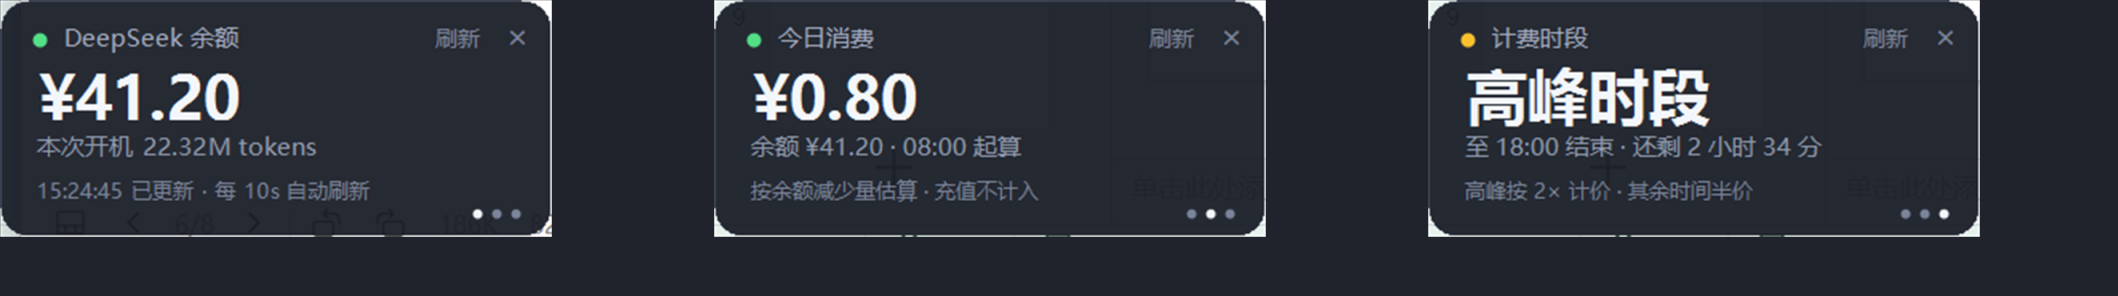
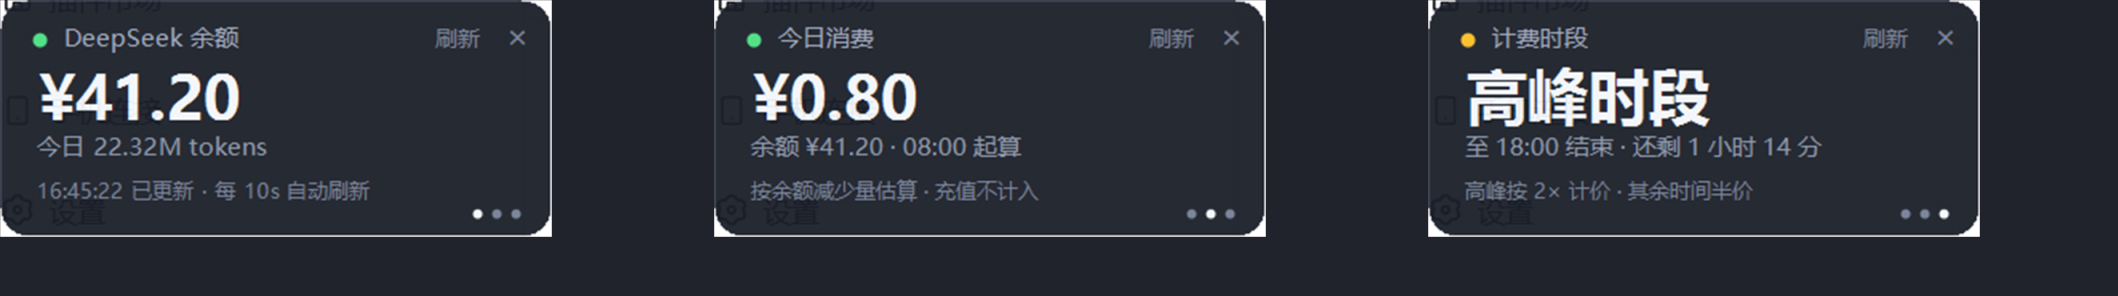
feat: token 行改成「今日累计」—— 跨多次开关机累加，与「今日消费」同一个日界
用户指出：一天里为了调试会反复开关 DSH，只报「本次开机」严重低估，他想要「每天的总
token」，并且和消费金额（8 点起算的 24 小时）保持同一个窗口。

难点在于宿主只在运行期间看得见 session/event，每次开机都从零开始。做法是让 usage.json
带上 dayKey，并把当天各次开机的量分条记录（boots）：每次开机只更新自己那一条，落盘时求和，
于是「今天」= 这一天里所有开机的合计。分条还顺带修掉一个隐患——桌面版与 dsh web 同时开着
时两边都写同一个 usage.json，原来会互相盖掉；现在各写各的，互不抹掉（有单测）。跨天
（dayKey 变）整份重开，与「今日消费」的日界完全一致。

日界因此在 JS（usageDayKey）与 PowerShell（Get-SpendingDayKey）各实现一遍，这是不得已；
守卫办法是两边测试写死同一批边界期望值（08:00 换天 / 07:59 不换 / 起点 0 即自然日 /
起点 20 点时次日 19:00 仍同一天），改一边就立刻变红。

小窗侧只改文案：本次开机 → 今日；日期与累计一律由宿主算好，小窗不自己再实现一套日界。

新增 8 条纯函数用例（跨开机累加、同一开机反复落盘是覆盖、跨天重置、并发实例互不抹掉、
坏文件当没有历史、日界与 PS 一致……）与 2 条装配层用例（两次 apply 累加、跨起算时刻重置）。

diff --git a/lib/usage.js b/lib/usage.js
@@ -1,5 +1,5 @@
 /**
- * dsh-api-balance —— 「本次开机消耗了多少 token」的折叠与呈现（纯函数，便于离线单测）。
+ * dsh-api-balance —— 「今天消耗了多少 token」的折叠、跨开机累计与呈现（纯函数，便于离线单测）。
  *
  * 数据来自宿主事件 `session/event`：每条提交的会话事件都会经过它，其中两种携带
  * provider 上报的用量：
@@ -11,8 +11,10 @@
  * 折叠语义（见 @deepseek-ai/dsh-token-meter 的 usage-projection）：同 turn/step 的
  * 新样本**替换**旧样本，只有 turn/step 推进时才累加。
  *
- * 因为监听是在插件 apply 时挂上的，只会看到本次开机之后追加的事件——「本次开机」
- * 这个口径是订阅时机自带的，不需要额外记录基线。
+ * 折叠出来的只是「本次开机」的量：监听是在插件 apply 时挂上的，看不到更早的事件。
+ * 而用户一天里会反复开关 DSH，所以对外要的是**当天合计**——由 `usageDayPayload` 把
+ * 本次开机的量并进文件里已有的分条记录（`boots`）里，跨开机累加；日界（哪一天、从几点
+ * 算起）与「今日消费」完全一致，见 `usageDayKey`。
  *
  * @module dsh-api-balance/usage
  */
@@ -163,20 +165,73 @@ export function formatTokenCount(value) {
 }
 
 /**
- * 生成写进 usage.json 的载荷。
+ * 「哪一天」的键：形如 `2026-09-14T08:00`，含义是「这一天从 08:00 开始」。
  *
- * 除了原始数字，还带上**已经排好版的**总数文本：窗口只管显示，不在 PowerShell 里再
- * 实现一遍数字压缩（那部分逻辑留在可单测的 JS 里）。四个分桶一并落盘，便于排查
- * 「计数是不是重复了」这类问题——小窗只显示总数，分桶是留给排查用的。
- * @param state - 累计状态。
- * @param now - 本次写入时间。
- * @returns 可 JSON 序列化的载荷。
+ * **必须与 PowerShell 侧的 `Get-SpendingDayKey` 完全一致**：「今日 token」与「今日消费」
+ * 共用同一个日界（`dayStartHour`，默认早 8 点起算、24 小时后换新的一天）。两边各实现一遍
+ * 是不得已（宿主是 JS、小窗是 PowerShell），守卫办法是两边的测试都写死同一批边界期望值
+ * ——08:00 整换天、07:59 仍算前一天、起点填 0 就是自然日……改一边就会立刻变红。
+ * @param date - 当前时刻（本地时间）。
+ * @param startHour - 一天的起点，0-23。
+ * @returns 形如 "2026-09-14T08:00" 的键。
  */
-export function usagePayload(state, now = new Date()) {
-  const snapshot = usageSnapshot(state)
+export function usageDayKey(date = new Date(), startHour = 8) {
+  const hour = Number.isInteger(startHour) && startHour >= 0 && startHour <= 23 ? startHour : 8
+  const start = new Date(date.getFullYear(), date.getMonth(), date.getDate(), hour, 0, 0, 0)
+  if (date.getTime() < start.getTime()) start.setDate(start.getDate() - 1)
+  const pad = (value) => String(value).padStart(2, '0')
+  return `${start.getFullYear()}-${pad(start.getMonth() + 1)}-${pad(start.getDate())}`
+    + `T${pad(start.getHours())}:${pad(start.getMinutes())}`
+}
+
+/**
+ * 把「本次开机的用量」并进当天合计，得到要落盘的那份载荷。
+ *
+ * 为什么要分条记（`boots`）而不是简单地把旧 total 加一遍：一天里可能**同时**开着多个实例
+ * （桌面版与 `dsh web` 各占一个 profile），而它们都往同一个 usage.json 写。按「哪一次开机」
+ * 分条之后，每次开机只更新自己那一条，并发写就不会把别人的数字整体抹掉——最多是某一次
+ * 开机的最新数字晚一拍才体现出来。
+ *
+ * `dayKey` 变了（跨天）或文件不可用，就丢掉整份记录重开，与「今日消费」的日界一致。
+ * @param previous - 上次落盘的载荷（读不到就传 null）。
+ * @param own - 本次开机的用量快照（`usageSnapshot` 的结果）。
+ * @param dayKey - 当前这一天的键（`usageDayKey`）。
+ * @param bootKey - 本次开机的标识，同一次开机内必须稳定。
+ * @param now - 本次写入时间。
+ * @returns 可 JSON 序列化的载荷（`total` / `totalText` 是窗口唯一要读的字段）。
+ */
+export function usageDayPayload(previous, own, dayKey, bootKey, now = new Date()) {
+  const carry = previous !== null && typeof previous === 'object'
+    && previous.dayKey === dayKey
+    && previous.boots !== null && typeof previous.boots === 'object'
+    ? previous.boots
+    : {}
+
+  const boots = { ...carry, [bootKey]: { ...own, updatedAt: now.toISOString() } }
+
+  let total = 0
+  let input = 0
+  let output = 0
+  let cacheRead = 0
+  let cacheWrite = 0
+  for (const entry of Object.values(boots)) {
+    if (entry === null || typeof entry !== 'object') continue
+    total += toCount(entry.total)
+    input += toCount(entry.input)
+    output += toCount(entry.output)
+    cacheRead += toCount(entry.cacheRead)
+    cacheWrite += toCount(entry.cacheWrite)
+  }
+
   return {
-    ...snapshot,
-    totalText: formatTokenCount(snapshot.total),
+    dayKey,
+    total,
+    input,
+    output,
+    cacheRead,
+    cacheWrite,
+    totalText: formatTokenCount(total),
+    boots,
     updatedAt: now.toISOString(),
   }
 }

diff --git a/lib/index.js b/lib/index.js
@@ -4,7 +4,7 @@
  * 职责边界刻意很窄，只有两件事：
  *
  *   1. 在 DSH 启动时拉起桌面余额小窗，并在插件卸载时关掉它；
- *   2. 把「本次开机以来消耗的 token」写进 usage.json，供小窗轮询显示。
+ *   2. 把「今天累计消耗的 token」写进 usage.json，供小窗轮询显示。
  *
  * 抓余额、画界面、看门狗全在 assets/balance-window.ps1 里，因此：
  *
@@ -13,9 +13,10 @@
  *   - 抓取失败只影响小窗自己的显示，不会让 DSH 启动变慢或报错。
  *
  * token 用量的口径：监听 `session/event`（每条提交的会话事件都会经过这里）里携带
- * provider 用量的两种事件。因为监听是在 apply 时挂上的，只会看到本次开机之后追加的
- * 事件，所以「本次开机」是订阅时机自带的，不需要记录基线；子代理的用量同样会被
- * 计进来。折叠语义见 lib/usage.js。
+ * provider 用量的两种事件。因为监听是在 apply 时挂上的，只看得见本次开机之后追加的
+ * 事件；而用户一天里会反复开关 DSH，所以在落盘时把本次开机的量并进文件里已有的分条
+ * 记录（按「哪一次开机」分条），跨开机累加成**当天合计**——日界与「今日消费」共用
+ * 同一个 `dayStartHour`。子代理的用量同样会被计进来。折叠与合并语义见 lib/usage.js。
  *
  * 用法（profile 的 cordis.patch.yml，或本包自带的 cordis.patch.yml）：
  *   - id: api-balance
@@ -30,7 +31,7 @@ import { existsSync, mkdirSync, readFileSync, renameSync, writeFileSync } from '
 import { dirname, join } from 'node:path'
 import { fileURLToPath } from 'node:url'
 import { buildWindowArgs, resolveBalanceConfig, resolvePowerShell } from './config.js'
-import { createUsageTracker, foldUsage, usagePayload } from './usage.js'
+import { createUsageTracker, foldUsage, usageDayKey, usageDayPayload, usageSnapshot } from './usage.js'
 import { startBalanceWindow } from './window.js'
 
 /** Cordis 插件名。 */
@@ -60,15 +61,41 @@ export function writeJsonFile(path, payload) {
 }
 
 /**
- * 装配「本次开机 token 用量」的统计与落盘。
+ * 读回上次落盘的 usage.json。
+ *
+ * 读不到、坏掉、格式不对一律当「没有历史」——绝不能让一个缓存文件把插件装配搞失败。
+ * @param path - usage.json 的路径。
+ * @returns 解析后的载荷，或 null。
+ */
+function readUsageFile(path) {
+  try {
+    if (!existsSync(path)) return null
+    const parsed = JSON.parse(readFileSync(path, 'utf8'))
+    return parsed !== null && typeof parsed === 'object' ? parsed : null
+  } catch {
+    return null
+  }
+}
+
+/**
+ * 装配「今天累计 token 用量」的统计与落盘。
  *
  * 与平台无关：即使不开窗口（非 Windows），用量照样统计并落盘。拆成独立函数是为了
  * 能在不拉起窗口的前提下单测「事件 → 折叠 → 文件」这条链。
+ *
+ * 落盘时把「本次开机」的量并进文件里当天已有的分条记录，于是**跨多次开机**累加成当天
+ * 合计——用户一天里反复开关 DSH 是常态，只报「本次开机」会严重低估。日界由
+ * `cfg.dayStartHour` 决定，与「今日消费」是同一个窗口。
  * @param ctx - 宿主 cordis 上下文。
  * @param cfg - 已规范化的配置。
  * @param log - 日志器。
+ * @param deps - 依赖注入：`now` 用来在测试里把时钟钉住（跨天行为靠它才测得动）。
  */
-export function applyUsageTracking(ctx, cfg, log) {
+export function applyUsageTracking(ctx, cfg, log, deps = {}) {
+  const now = deps.now ?? (() => new Date())
+  // 本次开机的标识。同一次开机内保持不变，这样每次落盘都只更新自己那一条记录，
+  // 不会覆盖别的实例（同时开着的桌面版 / web profile）留下的数字。
+  const bootKey = `${process.pid}@${now().toISOString()}`
   let tracker = createUsageTracker()
   let timer = null
   let lastWriteAt = 0
@@ -77,7 +104,10 @@ export function applyUsageTracking(ctx, cfg, log) {
     timer = null
     lastWriteAt = Date.now()
     try {
-      writeJsonFile(cfg.usagePath, usagePayload(tracker))
+      const at = now()
+      // 每次都重读：另一个实例可能刚更新过它那一条，重读才不会把它的数字抹掉。
+      const previous = readUsageFile(cfg.usagePath)
+      writeJsonFile(cfg.usagePath, usageDayPayload(previous, usageSnapshot(tracker), usageDayKey(at, cfg.dayStartHour), bootKey, at))
     } catch (error) {
       log.warn(`写入 token 用量失败：${error instanceof Error ? error.message : String(error)}`)
     }

diff --git a/AGENTS.md b/AGENTS.md
@@ -8,7 +8,7 @@
 ## 这是什么
 
 一个 DSH（DeepSeek Harness）桌面插件：启动后在桌面角落常驻一个置顶小窗，三页显示
-DeepSeek API 余额、本次开机消耗的 token、今日消费，以及当前是高峰还是半价的计费时段。
+DeepSeek API 余额、今日累计消耗的 token、今日消费，以及当前是高峰还是半价的计费时段。
 
 它由**两半**组成，改代码前先确认你要动的是哪一半：
 
@@ -143,6 +143,13 @@ dsh --profile desktop --dump-config        # 里面应当恰好有一条 id: api
     折叠逻辑前先读 `@deepseek-ai/dsh-token-meter` 的 `usage-projection`，并保证
     `tests/usage.test.mjs` 里「不重复计数」的用例仍然通过。
     总数 = 输入 + 输出 + 缓存读 + 缓存写；缓存命中单价更低，所以 **token 数不等于花费**。
+    **对外报的是「今日」（跨多次开关机累加），不是「本次开机」。** 宿主只在运行期间看得见
+    事件，所以落盘要按天合并（`usageDayPayload` + 文件里的 `boots` 分条记录，每条只由产生
+    它的那次开机更新，并发才不会互相抹掉）；`usageDayKey` 一变就整份重开。
+    `usageDayKey` 必须与 PowerShell 的 `Get-SpendingDayKey` 一致——日界在 JS 与 PS 各实现
+    一遍，守卫办法是两边测试写死同一批边界期望值（08:00 换天 / 07:59 不换 / 起点 0 即自然
+    日 / 起点 20 点时次日 19:00 仍同一天），改一边就立刻变红。
+    文件里的 `total` 与 `totalText` 是窗口唯一读的两个字段，改结构时别动这两个键。
 
 16. **换页用「点金额区域」，不要改成左右滑动。** 卡片本身靠拖动移动位置，横向滑动会和拖拽
     抢同一个手势，怎么调都会有一边不跟手。命中区域是 `$script:FlipRect`，在 Paint 里按当前
